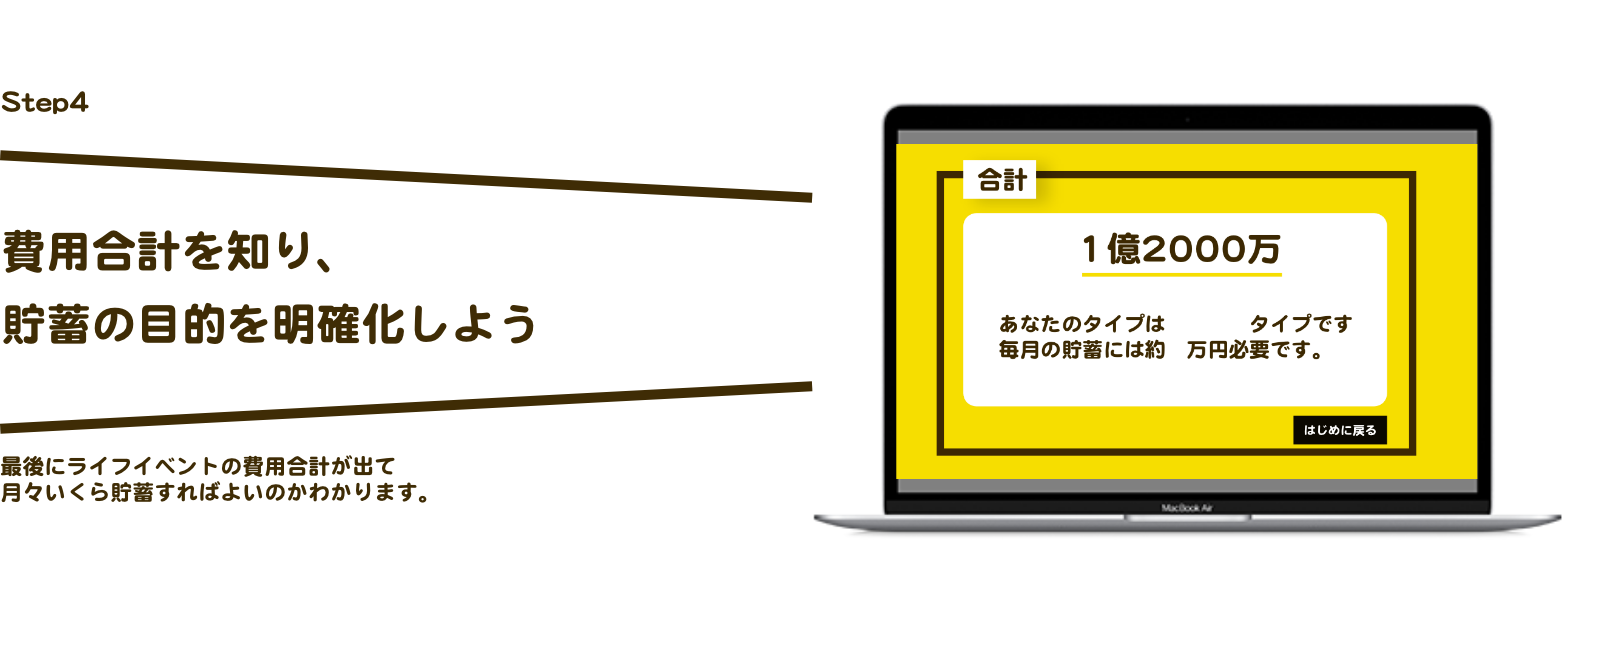
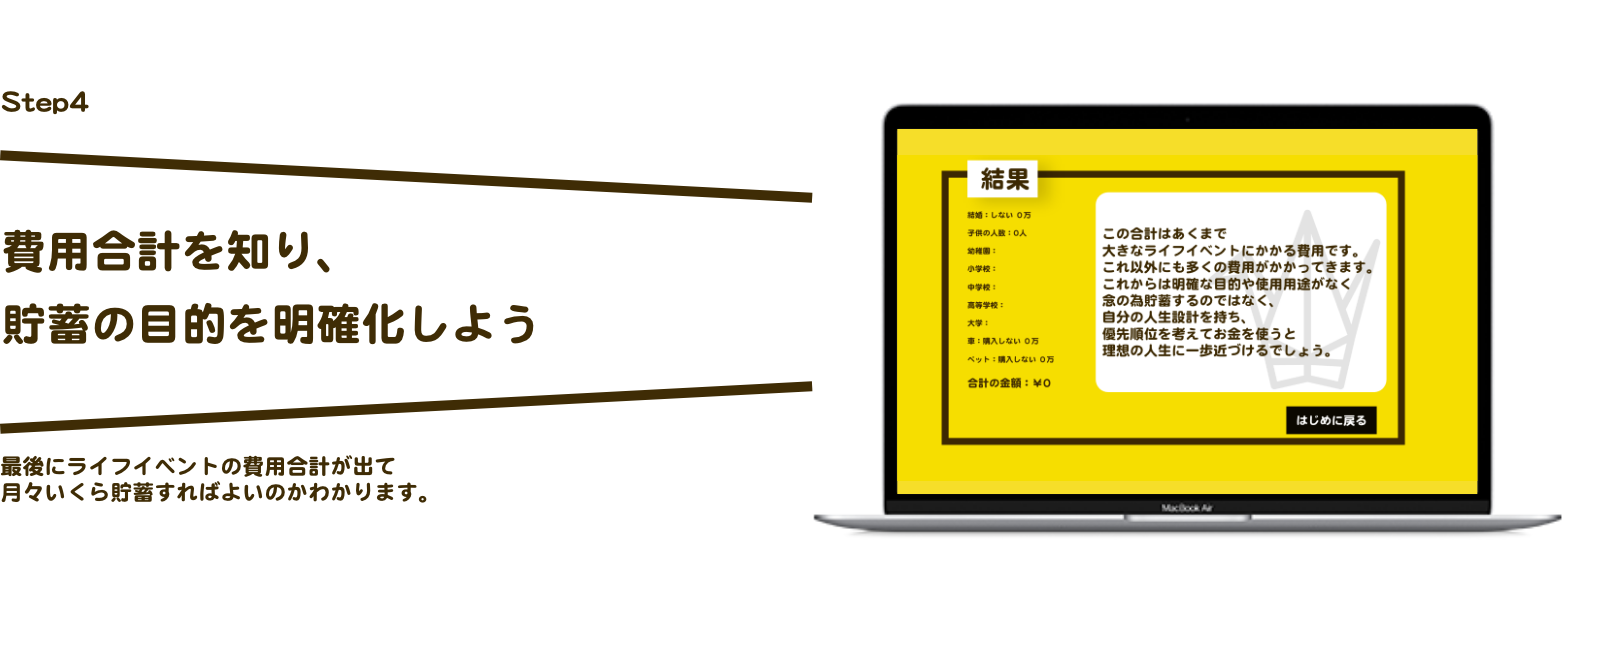
1月16日

Changed region(s): [[0.5583, 0.1858, 0.9305, 0.7121], [0.5583, 0.743, 0.9305, 0.774]]

diff --git a/index.html b/index.html
@@ -36,7 +36,7 @@
       </ul>
     </div>
     <div class="box box3">
-      <img src="./img/tsuru.png">
+      <img src="./img/tsuru.png" >
     </div>
    </div>
 
@@ -53,8 +53,7 @@
 <div id="q_002" class="quesition_part imformation">
   <div class="inner"><span class="box-title"><img width="25%" src="./img/3_about.png" alt=""></span>
   <ul class="col" id="wrap">
-  <li><img src="./img/monee2.png" alt=""></li>
-  <li><a class="h_btn" href="#q_003"><img src="./img/多角形.png" alt=""></li>
+  <li><a class="h_btn" href="#q_003"><img src="./img/monee2.png" alt=""></li>
   </ul>
   </div>
 </div>
@@ -62,8 +61,7 @@
 <div id="q_003" class="quesition_part imformation">
   <div class="inner"><span class="box-title"><img width="25%" src="./img/3_about.png" alt=""></span>
   <ul class="col" id="wrap">
-  <li><img src="./img/monee3.png" alt=""></li>
-  <li><a class="h_btn" href="#q_004"><img src="./img/多角形.png" alt=""></li>
+  <li><a class="h_btn" href="#q_004"><img src="./img/monee3.png" alt=""></li>
   </ul>
   </div>
 </div>
@@ -150,7 +148,7 @@
     <p>
      <label>
       人数は？：
-      <input type="text" id="children_count">
+      <input type="text" id="children_count" placeholder="子供の人数" width="300px">
     </label>
   </p>
   </div>
@@ -269,7 +267,7 @@
 <span class="box-title">結果</span>
 
 <div class="result">
-  <div class="rbox">
+  <div class="rbox1">
     <p><span>結婚：<span><span id="answer_00"></span><p>
     <p><span>子供の人数：<span><span id="answer_01"></span><p>
     <p><span>幼稚園：<span><span id="answer_02"></span><p>
@@ -281,8 +279,8 @@
     <p><span>ペット：<span><span id="answer_08"></span><p>
     <h1><span>合計の金額：<span><span id="answer_09"></span><h1>
   </div>
-    <div class="rbox">
-      <img src="./img/最後.png" width="50%">
+    <div class="rbox2">
+      <img src="./img/最後.png" width="80%">
     </div>
 </div>
 <div class="backbutton">

diff --git a/css/stylesheet.css b/css/stylesheet.css
@@ -73,9 +73,9 @@ font-family:'Hiragino Maru Gothic ProN';
 	margin-left: 140px;
 }
 
-.box3{
-	height: 800px;
-	width: 300px;
+.box3 {
+	width: 40%;
+	height: inherit;
 }
 
 #logo{
@@ -268,6 +268,9 @@ vertical-align: middle;
   outline: 0;
 	margin-left: 30px;
 }
+.babynumber p{
+	font-size: 50px;
+}
 .wakusenin{
 	margin-left: 30px;
 }
@@ -281,13 +284,13 @@ vertical-align: middle;
 	color: #3F2C05;
 	margin: 10px;
 }
-.rbox{
 
+.rbox2 img{
+	margin-left: 200px;
 }
 
 .result h1{
 	font-size: 30px;
 	color: #3F2C05;
 	font-weight: bold;
-	margin: 10px;
 }

diff --git a/js/question.js b/js/question.js
@@ -12,7 +12,7 @@ $(function(){
        $(this).closest(".quesition_part").css("display","none");
         const block_id = $(this).closest(".quesition_part").attr('id');
         const shift_id = $(this).attr("href");
-        $(shift_id).addClass("positionFit").show("fast");
+        $(shift_id).addClass("positionFit").fadeIn();
 
        if(block_id == 'q_00'){
           marriage_value = Number($(this).attr('data-value'));
